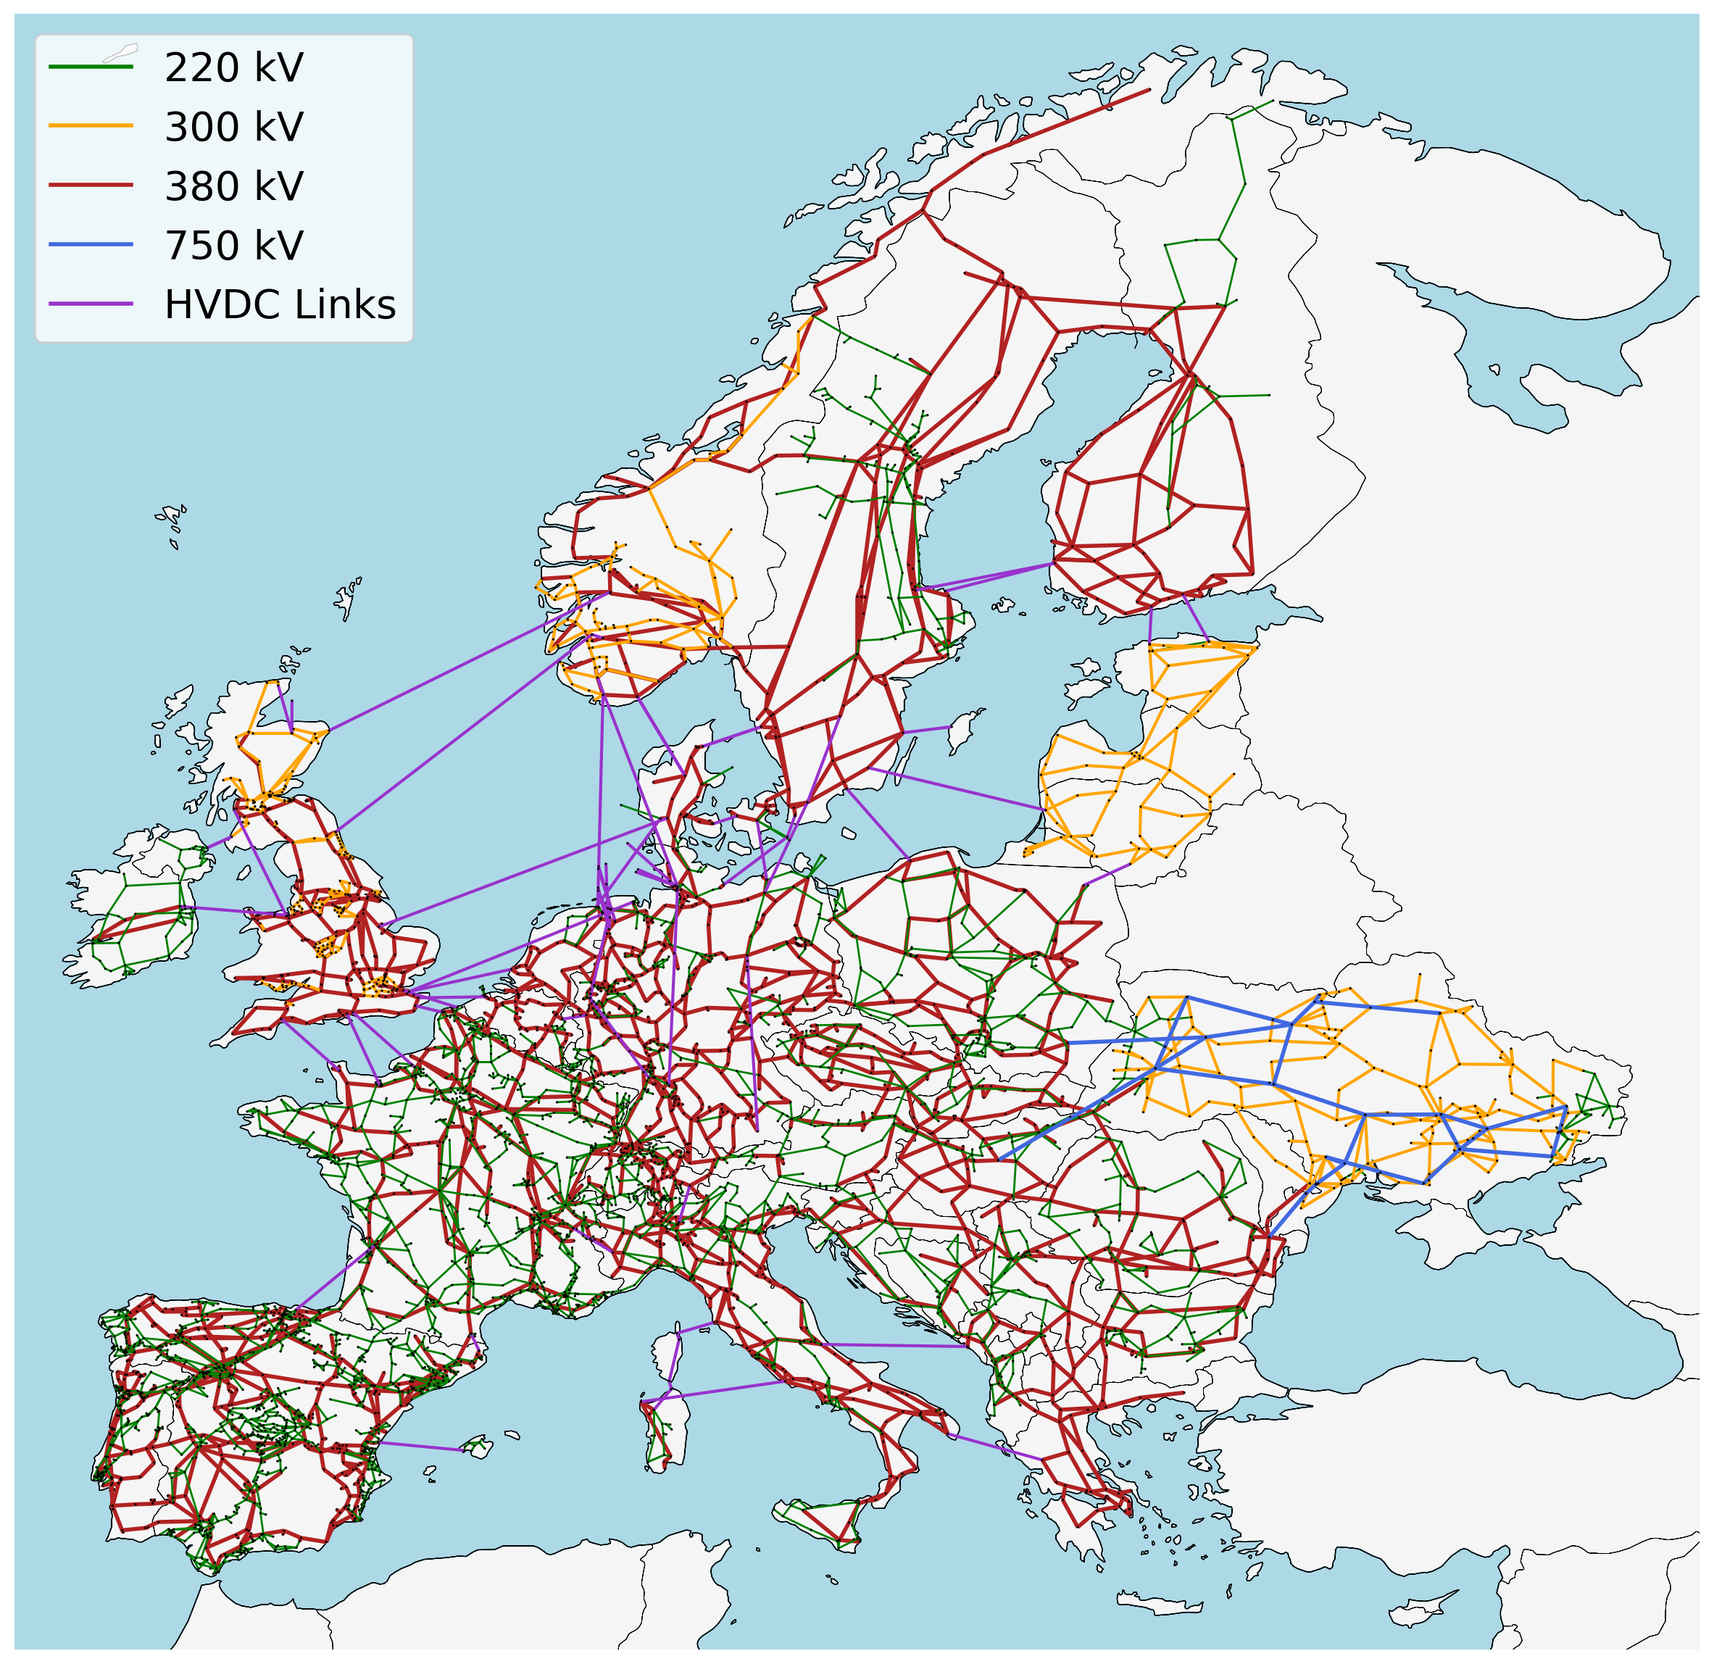
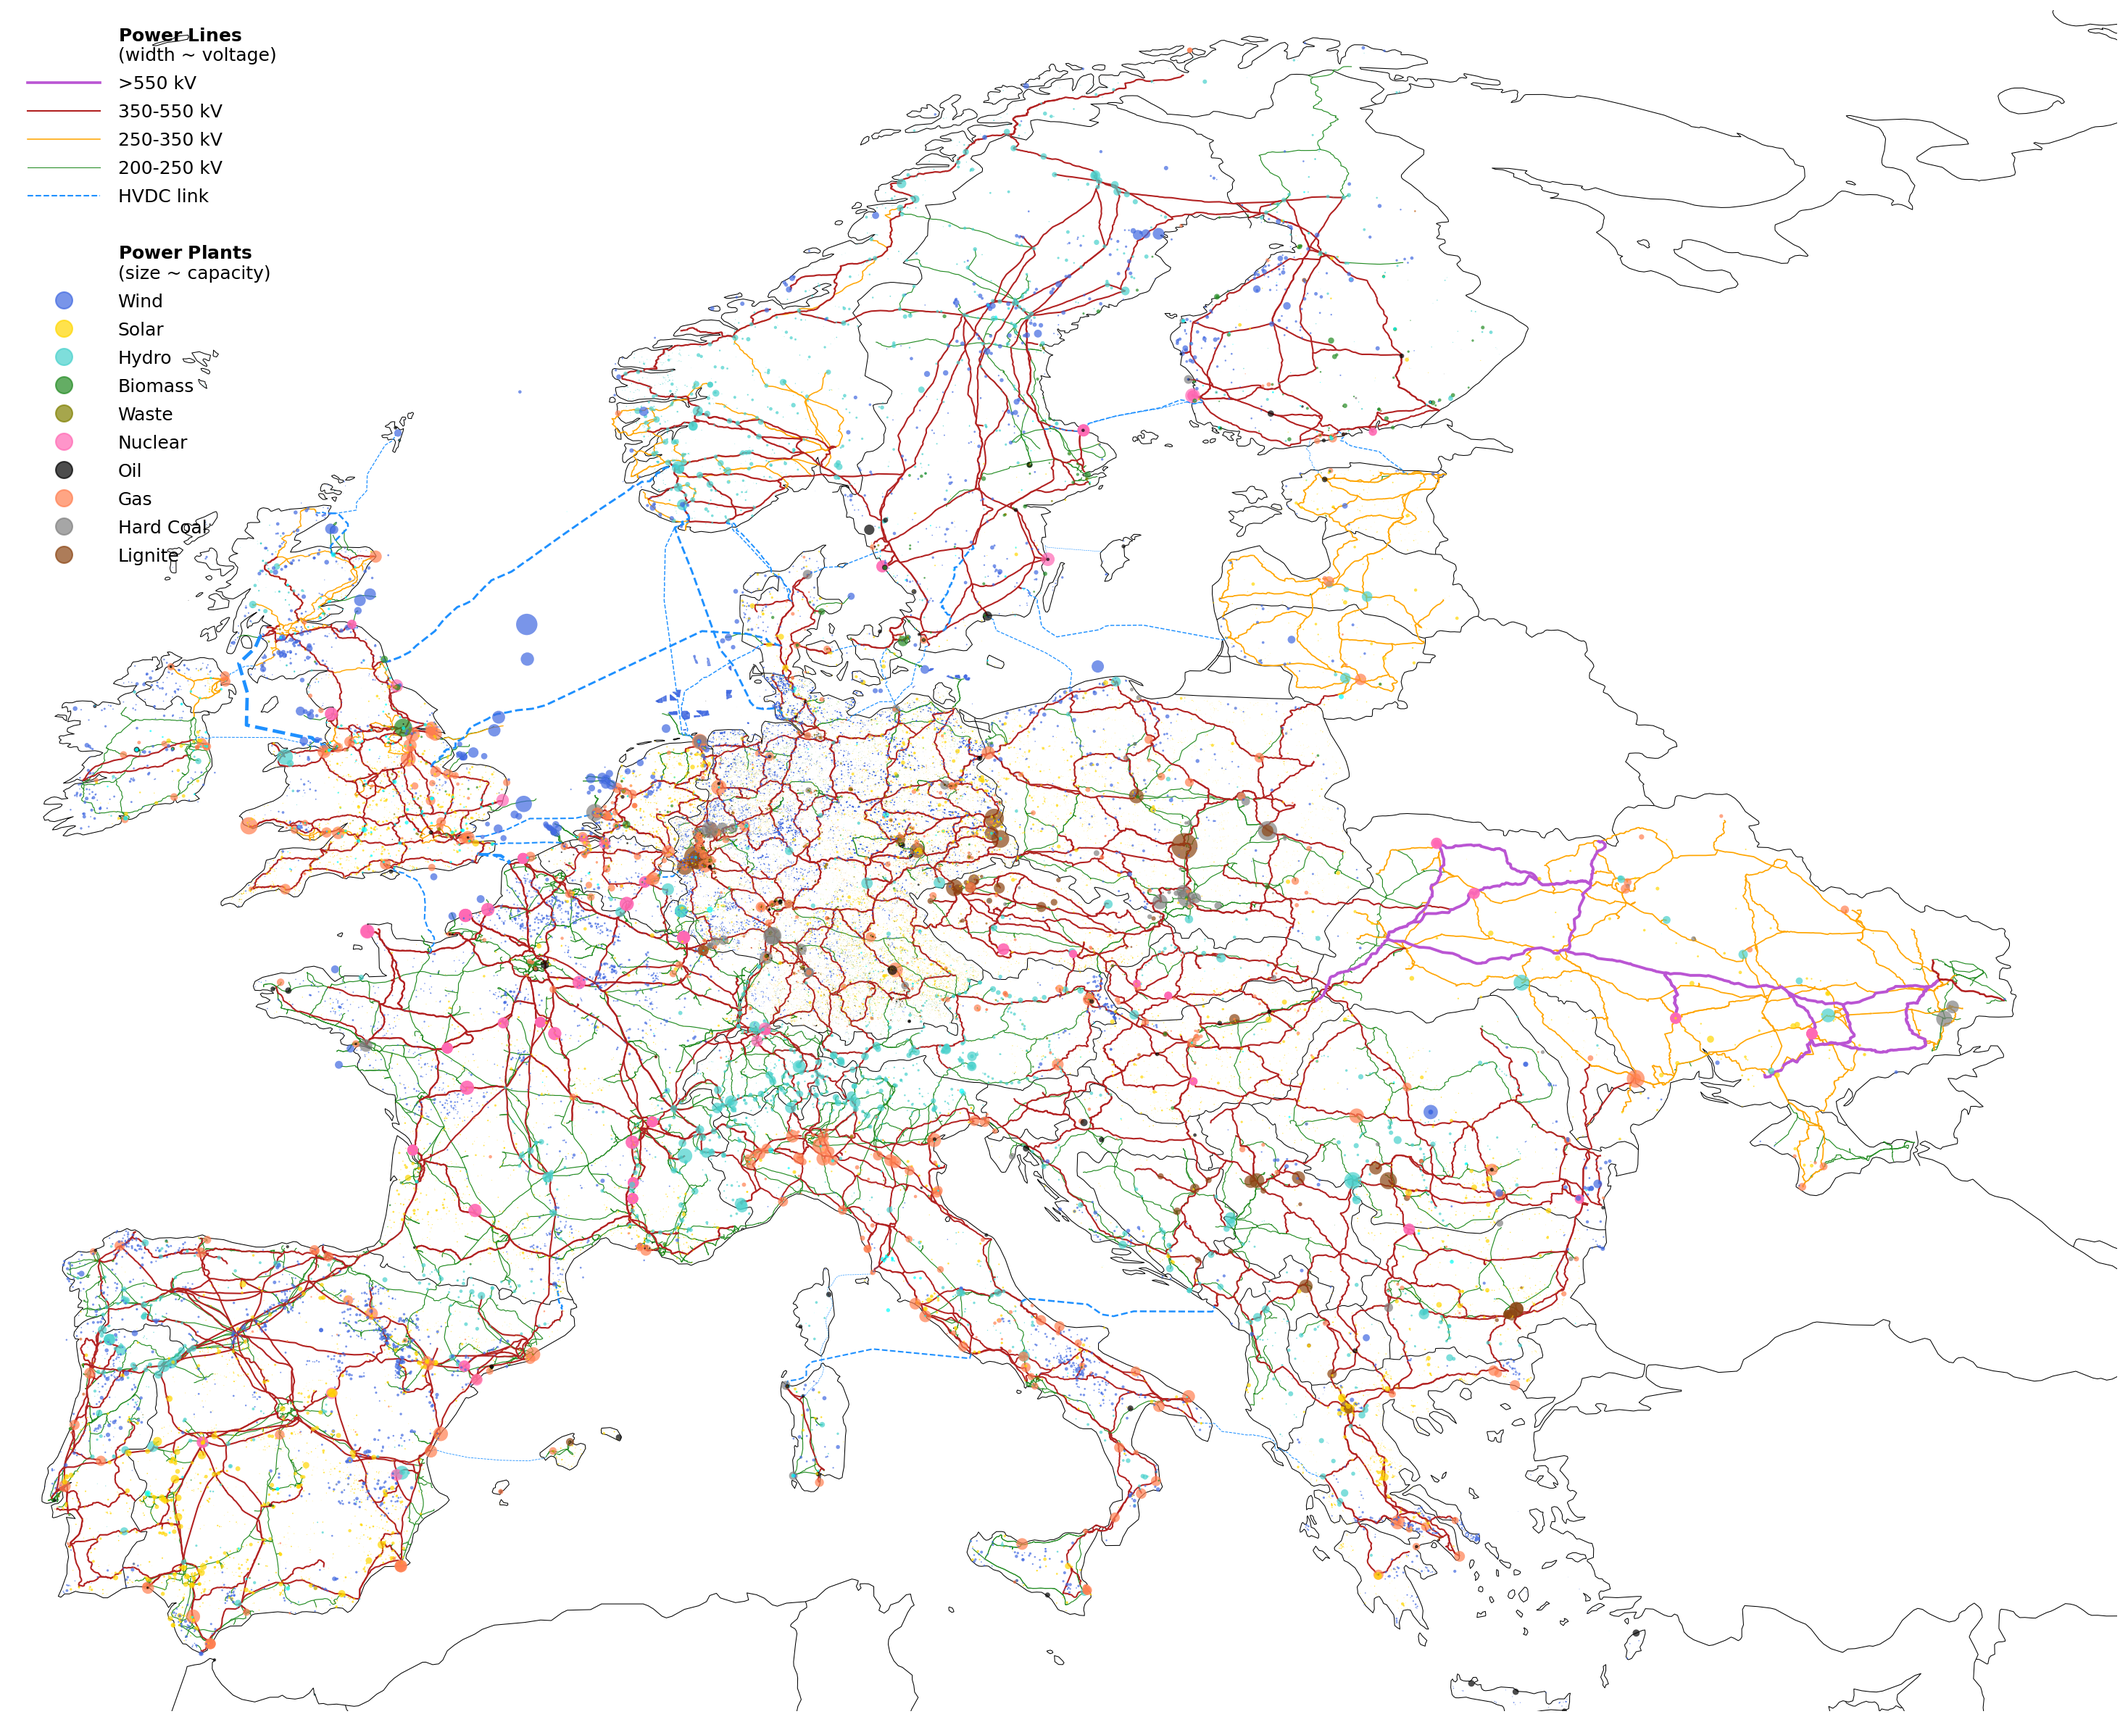
update README and figures (#2067)

diff --git a/README.md b/README.md
@@ -16,23 +16,11 @@ SPDX-License-Identifier: CC-BY-4.0
 # PyPSA-Eur: A Sector-Coupled Open Optimisation Model of the European Energy System
 
 PyPSA-Eur is an open model dataset of the European energy system at the
-transmission network level that covers the full ENTSO-E area. The model is suitable both for operational studies and generation and transmission expansion planning studies.
-The continental scope and highly resolved spatial scale enables a proper description of the long-range
-smoothing effects for renewable power generation and their varying resource availability.
-
-
-
-
-The model is described in the [documentation](https://pypsa-eur.readthedocs.io)
-and in the paper
-[PyPSA-Eur: An Open Optimisation Model of the European Transmission
-System](https://arxiv.org/abs/1806.01613), 2018,
-[arXiv:1806.01613](https://arxiv.org/abs/1806.01613).
-The model building routines are defined through a snakemake workflow.
-Please see the [documentation](https://pypsa-eur.readthedocs.io/)
-for installation instructions and other useful information about the snakemake workflow.
-The model is designed to be imported into the open toolbox
-[PyPSA](https://github.com/PyPSA/PyPSA).
+transmission network level that covers the full ENTSO-E area and all energy sectors, including transport, heating, biomass, industry, and agriculture.
+Besides the power grid, pipeline networks for gas, hydrogen, carbon dioxide, and liquid fuels are included.
+The model is suitable both for planning studies and operational studies.
+The model is built from open data using a Snakemake workflow and fully open source.
+It is designed to be imported into the open-source energy system modelling framework [PyPSA](www.pypsa.org).
 
 > [!NOTE]
 > PyPSA-Eur has many contributors, with the maintenance currently led by the [Department of Digital Transformation in
@@ -42,65 +30,55 @@ The model is designed to be imported into the open toolbox
 > Institute of Technology](http://www.kit.edu/english/index.php) funded by the
 > [Helmholtz Association](https://www.helmholtz.de/en/).
 
-> [!WARNING]
-> PyPSA-Eur is under active development and has several
-> [limitations](https://pypsa-eur.readthedocs.io/en/latest/limitations.html) which
-> you should understand before using the model. The github repository
-> [issues](https://github.com/PyPSA/pypsa-eur/issues) collect known topics we are
-> working on (please feel free to help or make suggestions). The
-> [documentation](https://pypsa-eur.readthedocs.io/) remains somewhat patchy. You
-> can find showcases of the model's capabilities in the Joule paper [The potential
-> role of a hydrogen network in
-> Europe](https://doi.org/10.1016/j.joule.2023.06.016), another [paper in Joule
-> with a description of the industry
-> sector](https://doi.org/10.1016/j.joule.2022.04.016), or in [a 2021 presentation
-> at EMP-E](https://nworbmot.org/energy/brown-empe.pdf). We do not recommend to
-> use the full resolution network model for simulations. At high granularity the
-> assignment of loads and generators to the nearest network node may not be a
-> correct assumption, depending on the topology of the underlying distribution
-> grid, and local grid bottlenecks may cause unrealistic load-shedding or
-> generator curtailment. We recommend to cluster the network to a couple of
-> hundred nodes to remove these local inconsistencies. See the discussion in
-> Section 3.4 "Model validation" of the paper.
 
+Among many other things, the dataset consists of:
 
-![PyPSA-Eur Grid Model](doc/img/elec.png)
-
-The dataset consists of:
-
-- A grid model based on a modified [GridKit](https://github.com/bdw/GridKit)
-  extraction of the [ENTSO-E Transmission System
-  Map](https://www.entsoe.eu/data/map/). The grid model contains 7072 lines
-  (alternating current lines at and above 220kV voltage level and all high
-  voltage direct current lines) and 3803 substations.
+- A power grid model based on [OpenStreetMap](https://zenodo.org/records/18619025) for voltage levels above 220kV (optional above 60kV).
 - The open power plant database
   [powerplantmatching](https://github.com/PyPSA/powerplantmatching).
-- Electrical demand time series from the
-  [OPSD project](https://open-power-system-data.org/).
-- Renewable time series based on ERA5 and SARAH, assembled using the [atlite tool](https://github.com/PyPSA/atlite).
-- Geographical potentials for wind and solar generators based on land use (CORINE) and excluding nature reserves (Natura2000) are computed with the [atlite library](https://github.com/PyPSA/atlite).
+- Electrical demand time series from the [ENTSO-E Transparency Platform](https://transparency.entsoe.eu/).
+- Renewable time series based on ERA5 and SARAH-3, assembled using [atlite](https://github.com/PyPSA/atlite).
+- Geographical potentials for wind and solar generators based land eligibility analysis in [atlite](https://github.com/PyPSA/atlite).
+- Energy balances compiled from Eurostat and JRC-IDEES datasets.
 
-A sector-coupled extension adds demand
-and supply for the following sectors: transport, space and water
-heating, biomass, industry and industrial feedstocks, agriculture,
-forestry and fishing. This completes the energy system and includes
-all greenhouse gas emitters except waste management and land use.
+The high-voltage grid and the power plant fleet are shown in this map of the unclustered model (as of 1 January 2026):
+
+![PyPSA-Eur Unclustered](doc/img/base.png)
+
+
+For computational reasons the model is usually clustered down
+to 50-250 nodes. The image below shows the electricity network and power plants clustered to NUTS2 regions:
+
+![network diagram](doc/img/elec.png)
 
 This diagram gives an overview of the sectors and the links between
-them:
+them within each model region:
 
 ![sector diagram](doc/img/multisector_figure.png)
 
-Each of these sectors is built up on the transmission network nodes
-from [PyPSA-Eur](https://github.com/PyPSA/pypsa-eur):
 
-![network diagram](https://github.com/PyPSA/pypsa-eur/blob/master/doc/img/base.png?raw=true)
 
-For computational reasons the model is usually clustered down
-to 50-200 nodes.
+# Warnings
 
-Already-built versions of the model can be found in the accompanying [Zenodo
-repository](https://doi.org/10.5281/zenodo.3601881).
+PyPSA-Eur is under active development and has several
+[limitations](https://pypsa-eur.readthedocs.io/en/latest/limitations.html) which
+you should understand before using the model. The github repository
+[issues](https://github.com/PyPSA/pypsa-eur/issues) collect known topics we are
+working on (please feel free to help or make suggestions). The
+[documentation](https://pypsa-eur.readthedocs.io/) remains somewhat patchy. You
+can find showcases of the model's capabilities in the Joule paper [The potential
+role of a hydrogen network in
+Europe](https://doi.org/10.1016/j.joule.2023.06.016), another [paper in Joule
+with a description of the industry
+sector](https://doi.org/10.1016/j.joule.2022.04.016), or in [a 2021 presentation
+at EMP-E](https://nworbmot.org/energy/brown-empe.pdf). We do not recommend to
+use the full resolution network model for simulations. At high granularity the
+assignment of loads and generators to the nearest network node may not be a
+correct assumption, depending on the topology of the underlying distribution
+grid, and local grid bottlenecks may cause unrealistic load-shedding or
+generator curtailment. We recommend to cluster the network to a couple of
+hundred nodes to remove these local inconsistencies. See the discussion in
+Section 3.4 "Model validation" of the paper.
 
 # Contributing and Support
 We strongly welcome anyone interested in contributing to this project. If you have any ideas, suggestions or encounter problems, feel invited to file issues or make pull requests on GitHub.

diff --git a/doc/introduction.rst b/doc/introduction.rst
@@ -10,10 +10,10 @@
 
 .. raw:: html
 
-    <iframe width="832" height="468" src="https://www.youtube.com/embed/ty47YU1_eeQ" frameborder="0" allow="accelerometer; autoplay; encrypted-media; gyroscope; picture-in-picture" allowfullscreen></iframe>
+    <iframe width="832" height="468" src="https://www.youtube.com/embed/nnAmOqJlGmk" frameborder="0" allow="accelerometer; autoplay; encrypted-media; gyroscope; picture-in-picture" allowfullscreen></iframe>
 
 .. note::
-    Find the introductory slides `here <https://docs.google.com/presentation/d/e/2PACX-1vQGQZD7KIVdocRZzRVu8Uk-JC_ltEow5zjtIarhyws46IMJpaqGuux695yincmJA_i5bVEibEs7z2eo/pub?start=false&loop=true&delayms=3000>`__.
+    Find the introductory slides `here <https://docs.google.com/presentation/d/1s4xkeGfR_IqArmceRaYgZUl0UFLymGXwjz6SRWBtNnE/edit>`__.
 
 .. warning::
     The video only introduces the electricity-only part of PyPSA-Eur.

diff --git a/doc/index.rst b/doc/index.rst
@@ -56,7 +56,7 @@ transmission expansion planning studies. The continental scope and highly
 resolved spatial scale enables a proper description of the long-range smoothing
 effects for renewable power generation and their varying resource availability.
 
-.. image:: img/elec.png
+.. image:: img/base.png
     :width: 70%
     :align: center
 
